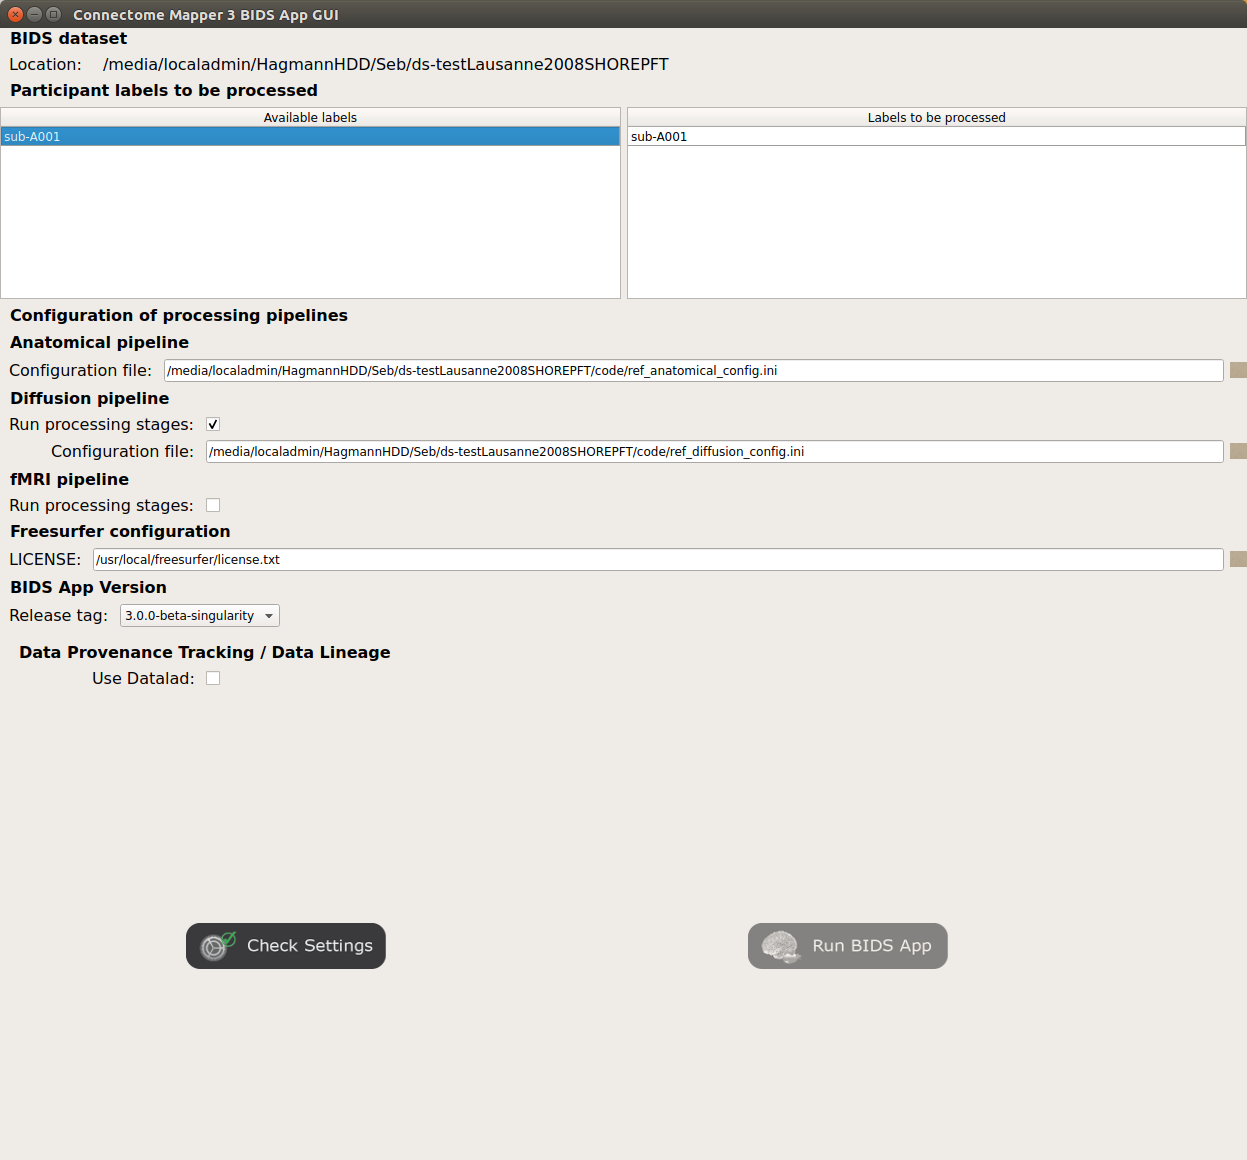
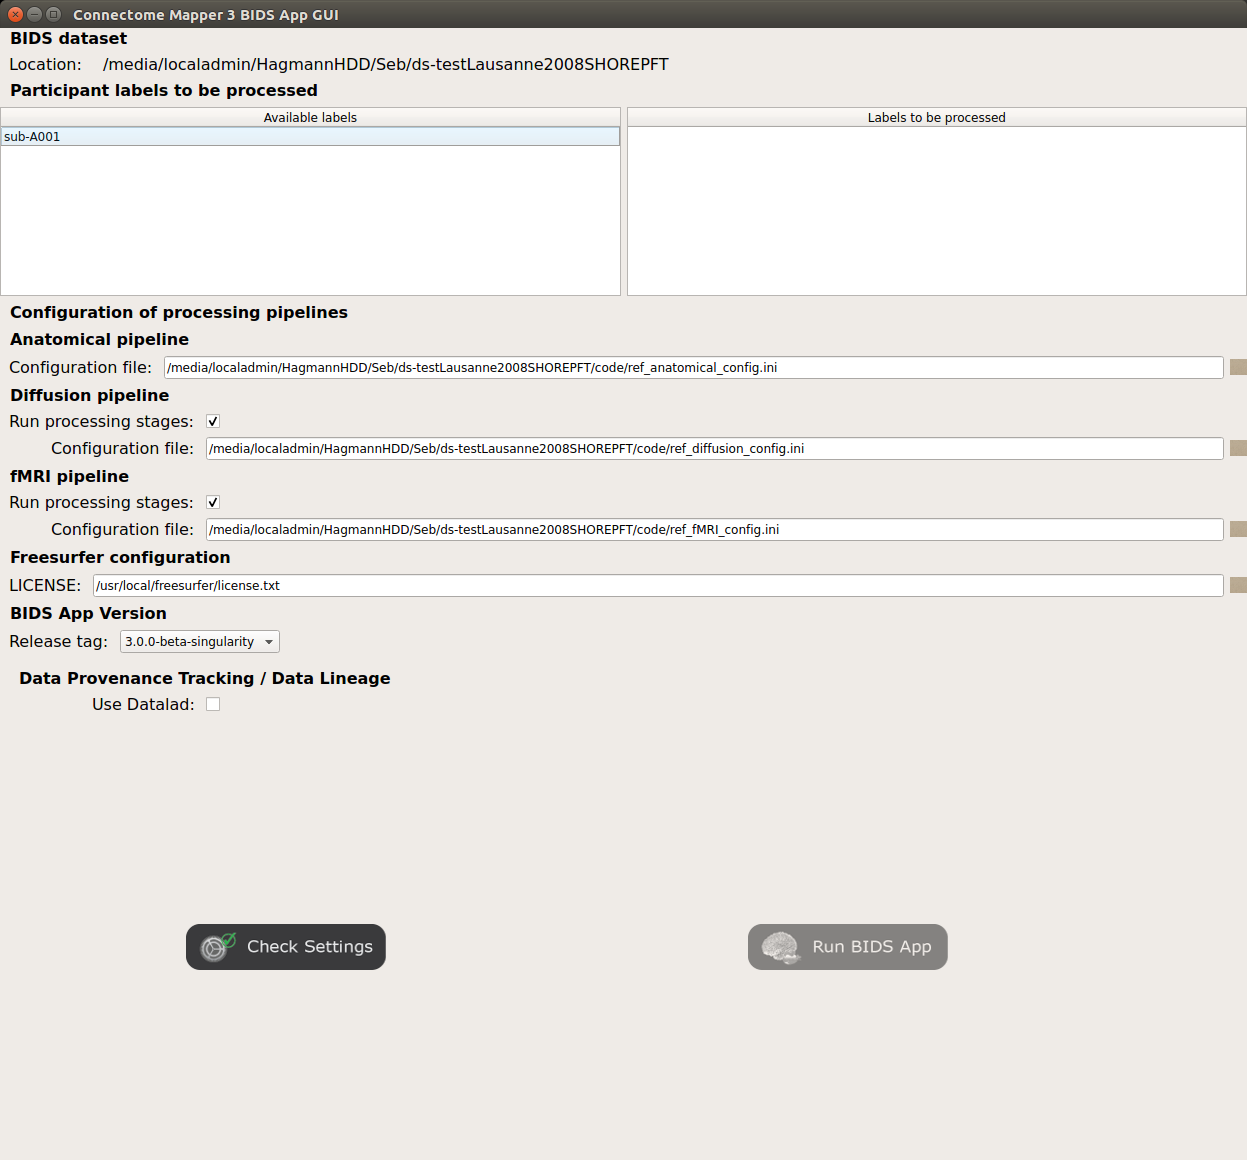
[DOCS: updated user guide]

diff --git a/docs/bidsappmanager.rst b/docs/bidsappmanager.rst
@@ -7,7 +7,7 @@ Introduction
 
 TBC
 
-.. figure:: images/bidsapp_window.png
+.. figure:: images/mainWindow.png
 	:align: center
 
 	Main window of the Connectome Mapper BIDS App Manager
@@ -53,11 +53,20 @@ If ssh connection is used, make sure to enable the  "install via ssh" and to pro
 Stage configuration
 *******************
 
+Start the Configurator Window
+--------------------------------
 
-Pipeline stages can be configured via the Configurator Window where each pipeline has a tab panel. 
+* From the main window, click on the left button to start the Configurator Window.
 
-.. image:: images/configurator_window.png
+.. image:: images/mainWindow_configurator.png
 	:align: center
+
+* The window of the Connectome Mapper BIDS App Configurator will appear, which will assist you note only in configuring the pipeline stages (each pipeline has a tab panel), but also in creating appropriate configuration files which could be used outside the Graphical User Interface.
+
+.. figure:: images/configurator_window.png
+	:align: center
+
+	Configurator Window of the Connectome Mapper
 
 The outputs depend on the chosen parameters.
 	
@@ -284,8 +293,15 @@ Computes fiber length connectivity matrices. If DTI data is processed, FA additi
 
 	Select in which formats the connectivity matrices should be saved.
 	
+Save the configuration files
+-------------------------------
 
+You can save the pipeline stage configuration files in two different way:
 
+	1. You can save all configuration files at once by clicking on the `Save All Pipeline Configuration Files`. This  will save automatically the configuration file of the anatomical / diffusion / fMRI pipeline to `<bids_dataset>/code/ref_anatomical_config.ini` / `<bids_dataset>/code/ref_diffusion_config.ini` / `<bids_dataset>/code/ref_fMRI_config.ini` respectively.
+
+	2. You can save individually each of the pipeline configuration files and edit its filename in the File menu (File -> Save anatomical/diffusion/fMRI configuration file as...)
+ 
 Nipype 
 -------
 
@@ -297,7 +313,95 @@ All intermediate steps for the processing are saved in the corresponding stage f
 Run the BIDS App
 *********************
 
-TBC
+Start the Connectome Mapper BIDS App GUI
+-----------------------------------------
+
+* From the main window, click on the middle button to start the Connectome Mapper BIDS App GUI.
+
+.. image:: images/mainWindow_bidsapp.png
+	:align: center
+
+* The window of the Connectome Mapper BIDS App GUI will appear, which will help you in setting up and launching the BIDS App run.
+
+.. figure:: images/bidsapp_window.png
+	:align: center
+
+	Window of the Connectome Mapper BIDS App GUI
+
+Run configuration
+-------------------
+
+* Select the subject labels to be processed
+
+	.. image:: images/bidsapp_select.png
+		:align: center
+
+* Check/Uncheck the pipelines to be performed
+
+	.. image:: images/bidsapp_pipeline_check.png
+		:align: center	
+
+* Specify your Freesurfer license
+
+	.. image:: images/bidsapp_fslicense.png
+		:align: center
+
+	.. note:: Your freesurfer license will be copied to your dataset directory as `<bids_dataset>/code/license.txt` which will be mounted inside the BIDS App container image.
+
+
+* When the run is set up, you can click on the `Check settings` button. 
+
+	.. image:: images/bidsapp_checksettings.png
+		:align: center
+
+* If the setup is complete and valid, this will enable the `Run BIDS App` button.
+
+	.. image:: images/bidsapp_checksettings2.png
+		:align: center
+
+You are ready to launch the BIDS App run!
+
+
+Launch the BIDS App run
+-------------------------
+
+* Click on the `Run BIDS App` button to launch the BIDS App run
+
+	.. image:: images/bidsapp_run.png
+		:align: center
+
+* You can see the complete `docker run` command generated by the Connectome Mapper BIDS App GUI from the terminal output such as in this example
+	.. code-block:: console
+
+		Start BIDS App
+		> Copy FreeSurfer license (BIDS App Manager) 
+		... src : /usr/local/freesurfer/license.txt
+		... dst : /media/localadmin/HagmannHDD/Seb/ds-testLausanne2008SHOREPFT/code/license.txt
+		> Datalad available: True
+		*... Docker cmd 2 : ['docker', 'run', '-it', '--rm', '-v', '/media/localadmin/HagmannHDD/Seb/ds-testLausanne2008SHOREPFT:/tmp', '-u', '1000:1000', 'sebastientourbier/connectomemapper-bidsapp:3.0.0-beta-singularity', '/tmp', '/tmp/derivatives', 'participant', '--participant_label', 'A001', '--anat_pipeline_config', '/tmp/code/ref_anatomical_config.ini', '--dwi_pipeline_config', '/tmp/code/ref_diffusion_config.ini']*
+		> BIDS dataset: /tmp
+		> Subjects to analyze : ['A001']
+		> Copy FreeSurfer license (BIDS App) 
+		> Sessions to analyze : ['ses-20150203160809']
+		> Process subject sub-A001 session ses-20150203160809
+		WARNING: rewriting config file /tmp/derivatives/sub-A001_ses-20150203160809_anatomical_config.ini
+		... Anatomical config created : /tmp/derivatives/sub-A001_ses-20150203160809_anatomical_config.ini
+		WARNING: rewriting config file /tmp/derivatives/sub-A001_ses-20150203160809_diffusion_config.ini
+		... Diffusion config created : /tmp/derivatives/sub-A001_ses-20150203160809_diffusion_config.ini
+		... Running pipelines : 
+		        - Anatomical MRI (segmentation and parcellation)
+		        - Diffusion MRI (structural connectivity matrices)
+		... cmd : connectomemapper3 /tmp /tmp/derivatives sub-A001 ses-20150203160809 /tmp/derivatives/sub-A001_ses-20150203160809_anatomical_config.ini True /tmp/derivatives/sub-A001_ses-20150203160809_diffusion_config.ini True
+
+	.. note:: Also, this can be helpful in you wish to design your own batch scripts to call the BIDS App with the correct syntax.
+
+
+
+Check progress
+------------------
+
+For each subject, the execution output of the pipelines are redirected to a log file, written as ``<bids_dataset/derivatives>/cmp/sub-<subject_label>_log.txt``. Execution progress can be checked by the means of these log files. 
+
 
 Check stages outputs
 ****************************

diff --git a/docs/index.rst b/docs/index.rst
@@ -100,4 +100,4 @@ If your are using the Connectome Mapper 3 in your work, please acknowledge this 
 Eager to contribute?
 ***********************
 
-See :ref:``Contributing to Connectome Mapper <contributing>` for more details.
+See :ref:`Contributing to Connectome Mapper <contributing>` for more details.

diff --git a/docs/implementation.rst b/docs/implementation.rst
@@ -257,4 +257,4 @@ FreeSurfer is copied into this directory.
 Eager to contribute?
 ---------------------
 
-See `Contributing to Connectome Mapper <contributing.html>`_ for more details.
+See `Contributing to Connectome Mapper <contributing>`_ for more details.
